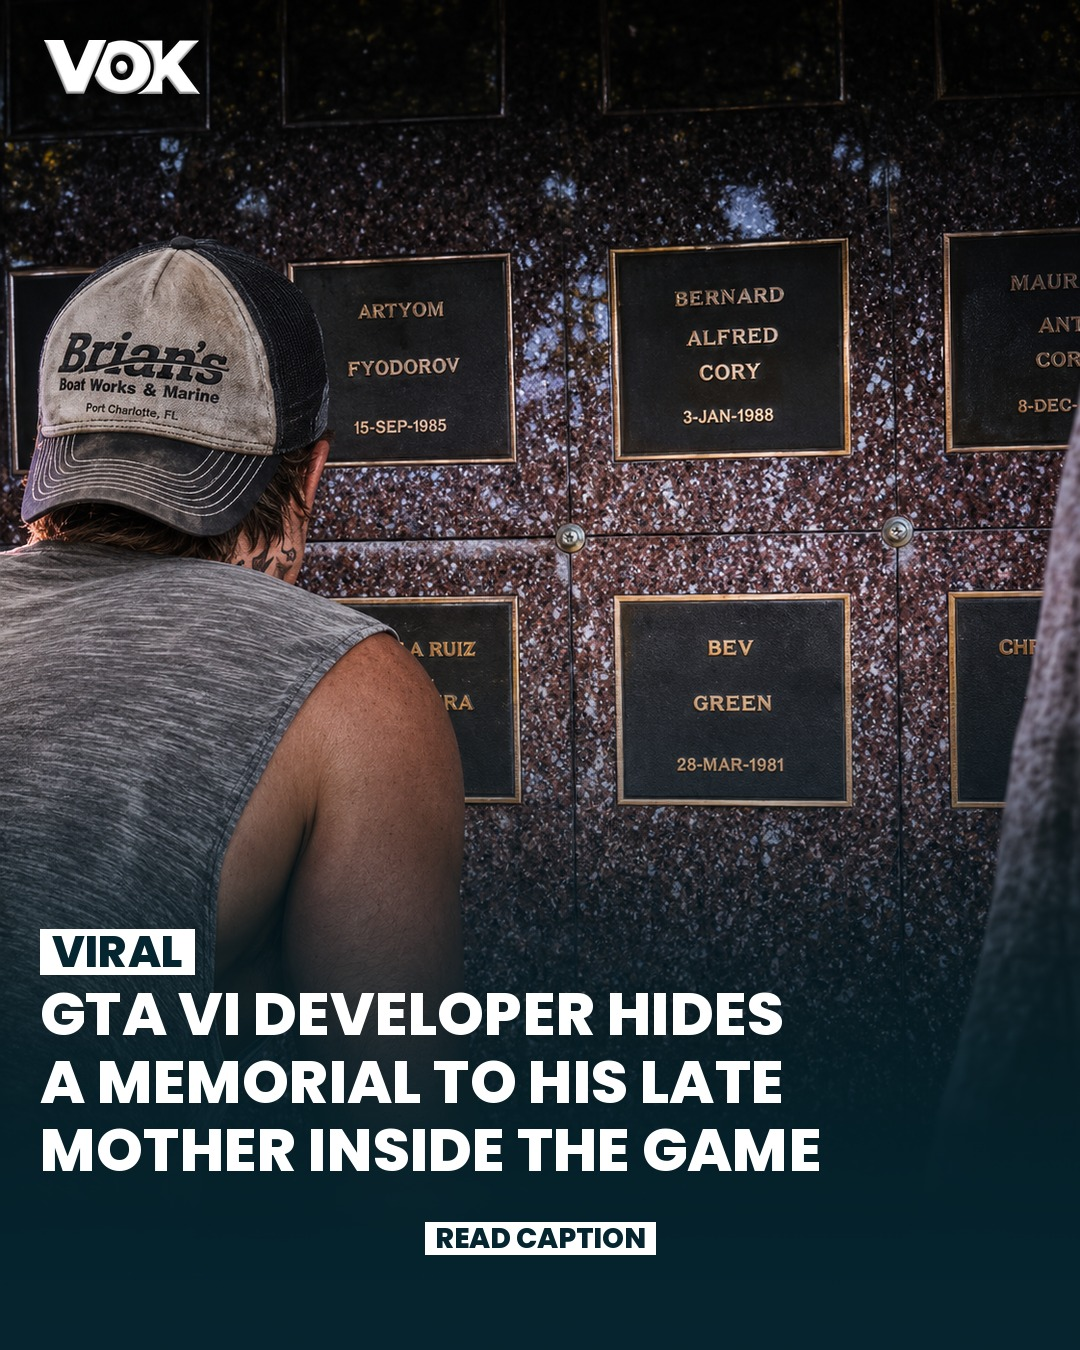
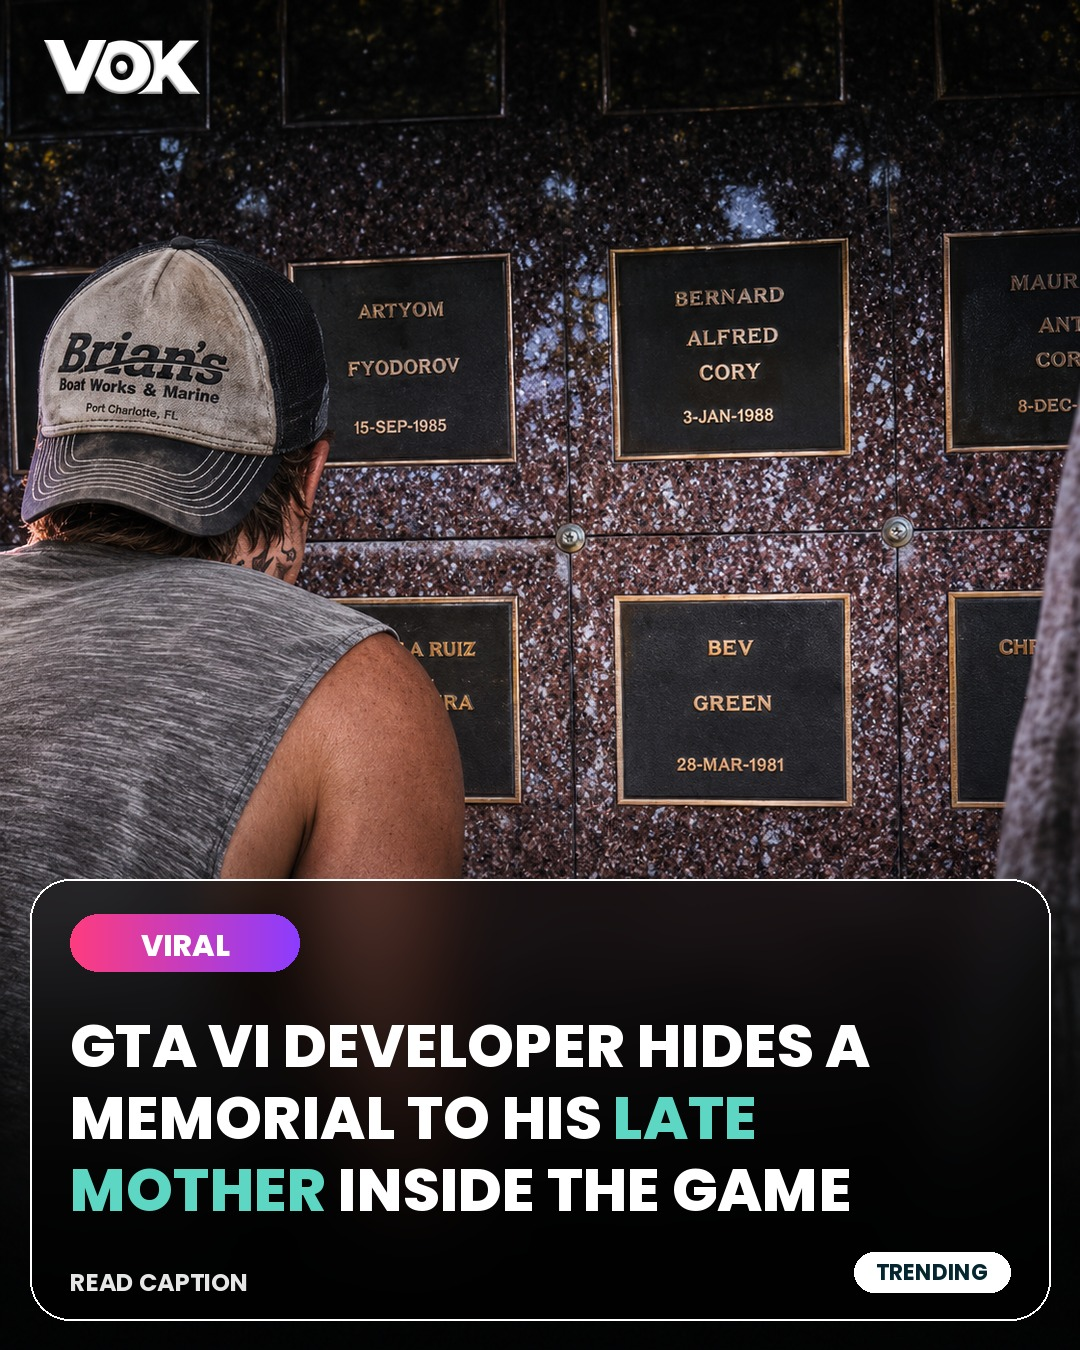
Viral templates: spotlight (A) for general viral, glass (C) for gaming; auto highlight words; priority 3 uses BREAKING template; GTA memorial in C
Claude-Session: https://claude.ai/code/session_01QCrJEZeKbDG7a8nB2oQVuB

diff --git a/vok/render.py b/vok/render.py
@@ -14,6 +14,7 @@ from __future__ import annotations
 
 import argparse
 import itertools
+import re
 from pathlib import Path
 
 from PIL import Image, ImageDraw, ImageFont
@@ -238,8 +239,140 @@ def _boxed_label(d: ImageDraw.ImageDraw, text: str, f, x: int, y: int,
     return bh
 
 
+# ---------------- VIRAL templates ----------------
+VIRAL_TEAL = (94, 214, 196)      # bright VOK teal, chosen by Saad
+GAMING = re.compile(r"\b(gta|grand theft auto|rockstar|playstation|ps5|xbox|nintendo|switch 2|gamer|gamers|"
+                    r"gaming|video game|esports|steam|fortnite|minecraft|call of duty|twitch|streamer|"
+                    r"roblox|valorant|pubg|ea sports fc|elden ring)\b", re.I)
+
+
+def is_gaming(text: str) -> bool:
+    return bool(GAMING.search(text or ""))
+
+
+def _hl_words(headline: str, highlight: str) -> list[tuple[str, bool]]:
+    ws = headline.upper().split()
+    hl = highlight.upper().split()
+    mark = [False] * len(ws)
+    if hl:
+        n = len(hl)
+        strip = lambda w: re.sub(r"[^\w!@*]", "", w)
+        for i in range(len(ws) - n + 1):
+            if [strip(w) for w in ws[i:i + n]] == [strip(w) for w in hl]:
+                for j in range(i, i + n):
+                    mark[j] = True
+                break
+    return list(zip(ws, mark))
+
+
+def _wrap_hl(ws, f, max_w):
+    lines, cur = [], []
+    for w in ws:
+        test = " ".join(x for x, _ in cur + [w])
+        if cur and f.getlength(test) > max_w:
+            lines.append(cur)
+            cur = [w]
+        else:
+            cur.append(w)
+    lines.append(cur)
+    return lines
+
+
+def _fit_hl(ws, max_w, sizes, max_lines):
+    for size in sizes:
+        f = font(800, size)
+        lines = _wrap_hl(ws, f, max_w)
+        if len(lines) <= max_lines:
+            return f, lines
+    f = font(800, sizes[-1])
+    return f, _wrap_hl(ws, f, max_w)
+
+
+def _draw_hl(d, lines, f, x, y, lh, color):
+    for line in lines:
+        cx = x
+        for w, hl in line:
+            d.text((cx, y), w, font=f, fill=color if hl else WHITE)
+            cx += f.getlength(w) + f.getlength(" ")
+        y += lh
+    return y
+
+
+def _pill(d, x, y, text, f, bg, fg):
+    b = f.getbbox(text)
+    w, h = b[2] - b[0] + 44, b[3] - b[1] + 24
+    d.rounded_rectangle((x, y, x + w, y + h), radius=h // 2, fill=bg)
+    d.text((x + 22 - b[0], y + 12 - b[1]), text, font=f, fill=fg)
+    return w, h
+
+
+def render_viral_spotlight(image_path, headline, out_path, highlight="", focus=None):
+    c = smart_crop(Image.open(image_path), focus).convert("RGBA")
+    g = Image.new("RGBA", (W, H))
+    gd = ImageDraw.Draw(g)
+    for yy in range(H):
+        t = max(0, (yy - 620) / (H - 620))
+        gd.line((0, yy, W, yy), fill=(0, 0, 0, int(235 * min(1, t ** 1.2))))
+    c.alpha_composite(g)
+    _logo(c)
+    d = ImageDraw.Draw(c)
+    pf = font(800, 34)
+    pw = pf.getbbox("VIRAL")[2] + 44
+    _pill(d, W - 40 - pw, 44, "VIRAL", pf, VIRAL_TEAL, NAVY)
+    f, lines = _fit_hl(_hl_words(headline, highlight), W - 80, (70, 64, 58, 52), 4)
+    lh = round(f.size * 1.14)
+    y = 1250 - len(lines) * lh
+    _draw_hl(d, lines, f, 40, y, lh, VIRAL_TEAL)
+    d.rectangle((40, 1272, 140, 1278), fill=VIRAL_TEAL)
+    d.text((160, 1260), "READ CAPTION  \u2022  VOK ORIGINALS", font=font(600, 24), fill=(220, 220, 220))
+    c.convert("RGB").save(out_path, "JPEG", quality=92)
+    return out_path
+
+
+def render_viral_glass(image_path, headline, out_path, highlight="", focus=None):
+    from PIL import ImageFilter, ImageEnhance
+    base = smart_crop(Image.open(image_path), focus).convert("RGBA")
+    f, lines = _fit_hl(_hl_words(headline, highlight), W - 140, (60, 56, 52, 48), 4)
+    lh = round(f.size * 1.2)
+    text_h = len(lines) * lh
+    top = H - 30 - (90 + 30 + text_h + 105)       # tag + gap + headline + footer
+    box = (30, top, W - 30, H - 30)
+    blur = base.crop(box).filter(ImageFilter.GaussianBlur(28))
+    blur = ImageEnhance.Brightness(blur).enhance(0.55)
+    mask = Image.new("L", blur.size, 0)
+    ImageDraw.Draw(mask).rounded_rectangle((0, 0, blur.width - 1, blur.height - 1), radius=40, fill=255)
+    base.paste(blur, box[:2], mask)
+    d = ImageDraw.Draw(base)
+    d.rounded_rectangle(box, radius=40, outline=(255, 255, 255, 90), width=2)
+    _logo(base)
+    tag = Image.new("RGBA", (230, 58))
+    td = ImageDraw.Draw(tag)
+    a, b = (255, 61, 127), (140, 60, 255)
+    for x in range(230):
+        t = x / 229
+        td.line((x, 0, x, 58), fill=tuple(int(a[i] * (1 - t) + b[i] * t) for i in range(3)))
+    m = Image.new("L", tag.size, 0)
+    ImageDraw.Draw(m).rounded_rectangle((0, 0, 229, 57), radius=29, fill=255)
+    base.paste(tag, (70, top + 35), m)
+    tf = font(800, 30)
+    d.text((70 + (230 - tf.getlength("VIRAL")) / 2, top + 45), "VIRAL", font=tf, fill=WHITE)
+    _draw_hl(d, lines, f, 70, top + 125, lh, VIRAL_TEAL)
+    d.text((70, H - 85), "READ CAPTION", font=font(700, 24), fill=(230, 230, 230))
+    pf = font(700, 22)
+    pw = pf.getbbox("TRENDING")[2] + 44
+    _pill(d, W - 70 - pw, H - 98, "TRENDING", pf, WHITE, NAVY)
+    base.convert("RGB").save(out_path, "JPEG", quality=92)
+    return out_path
+
+
 def render(image_path: str, headline: str, out_path: str,
-           label: str = "NEWS", focus: tuple[float, float] | None = None) -> str:
+           label: str = "NEWS", focus: tuple[float, float] | None = None,
+           highlight: str = "", gaming: bool | None = None) -> str:
+    if label.upper() == "VIRAL":
+        if gaming is None:
+            gaming = is_gaming(headline)
+        fn = render_viral_glass if gaming else render_viral_spotlight
+        return fn(image_path, headline, out_path, highlight, focus)
     photo = smart_crop(Image.open(image_path), focus)
     canvas = photo.convert("RGBA")
     _gradient(canvas)

diff --git a/vok/write.py b/vok/write.py
@@ -57,7 +57,9 @@ results), celebrity gossip with no wider angle, and local business news. Global 
 PRIORITY: "priority": 3 = breaking news (just happened, big: war moves, strikes, deaths of
 leaders, major disasters, huge political shocks), 2 = important, 1 = normal/viral.
 
-LABEL: "NEWS" for hard news, "VIRAL" for viral/social/celebrity stories.
+LABEL: "NEWS" for hard news, "VIRAL" for viral/social/celebrity/gaming/tech-moment stories.
+HIGHLIGHT: "highlight": 1 to 3 consecutive words copied exactly from your headline that carry the
+emotion or surprise (e.g. "late mother", "roasts", "1 billion"). They are coloured on the image.
 
 PHOTO (who or what the picture shows)
 - "photo_person": the full name of the person the picture should show, chosen in this order:
@@ -78,7 +80,7 @@ PHOTO (who or what the picture shows)
 
 Return ONLY JSON with these keys:
 {"publishable": true/false, "reason": "...", "label": "NEWS|VIRAL", "headline": "...",
- "caption": "...", "photo_person": "...", "priority": 1, "image_query": "...", "image_query_backup": "...", "is_pakistan_story": true/false}
+ "caption": "...", "highlight": "...", "photo_person": "...", "priority": 1, "image_query": "...", "image_query_backup": "...", "is_pakistan_story": true/false}
 """
 
 
@@ -202,6 +204,8 @@ def write_post(story: dict, models: list[str]) -> dict:
         out["publishable"] = False
         out["reason"] = f"teaser headline not allowed on single posts: {out['headline']}"
     out["label"] = "VIRAL" if str(out.get("label", "")).upper() == "VIRAL" else "NEWS"
+    if out["label"] == "NEWS" and int(out.get("priority") or 1) >= 3:
+        out["label"] = "BREAKING"          # Saad's red breaking template
     return out
 
 

diff --git a/vok/make_posts.py b/vok/make_posts.py
@@ -103,6 +103,7 @@ def main(count: int | None = None, auto_approve: bool = False, hold: bool = Fals
                 continue
             meta = {
                 "headline": clean(w["headline"]), "label": w["label"],
+                "highlight": clean(w.get("highlight") or ""),
                 "caption": clean(w["caption"].rstrip()), "status": "needs_photo",
                 "ai_image": False, "created_at": now().isoformat(timespec="minutes"),
                 "targets": ["facebook", "instagram"],
@@ -121,7 +122,8 @@ def main(count: int | None = None, auto_approve: bool = False, hold: bool = Fals
         headline = clean(w["headline"])
         try:
             shutil.copy(photo["path"], folder / "photo.jpg")
-            render(str(folder / "photo.jpg"), headline, str(folder / "render.jpg"), w["label"])
+            render(str(folder / "photo.jpg"), headline, str(folder / "render.jpg"), w["label"],
+                   highlight=clean(w.get("highlight") or ""))
         except Exception as e:
             print(f"skip (render failed): {e}")
             shutil.rmtree(folder, ignore_errors=True)

diff --git a/vok/run.py b/vok/run.py
@@ -20,7 +20,8 @@ def do_render(post_id: str):
     photo = next(folder.glob("photo.*"))
     out = folder / "render.jpg"
     focus = tuple(meta["focus"]) if meta.get("focus") else None
-    render(str(photo), meta["headline"], str(out), meta.get("label", "NEWS"), focus)
+    render(str(photo), meta["headline"], str(out), meta.get("label", "NEWS"), focus,
+           highlight=meta.get("highlight", ""))
     print(f"rendered {out}")
     return out
 
